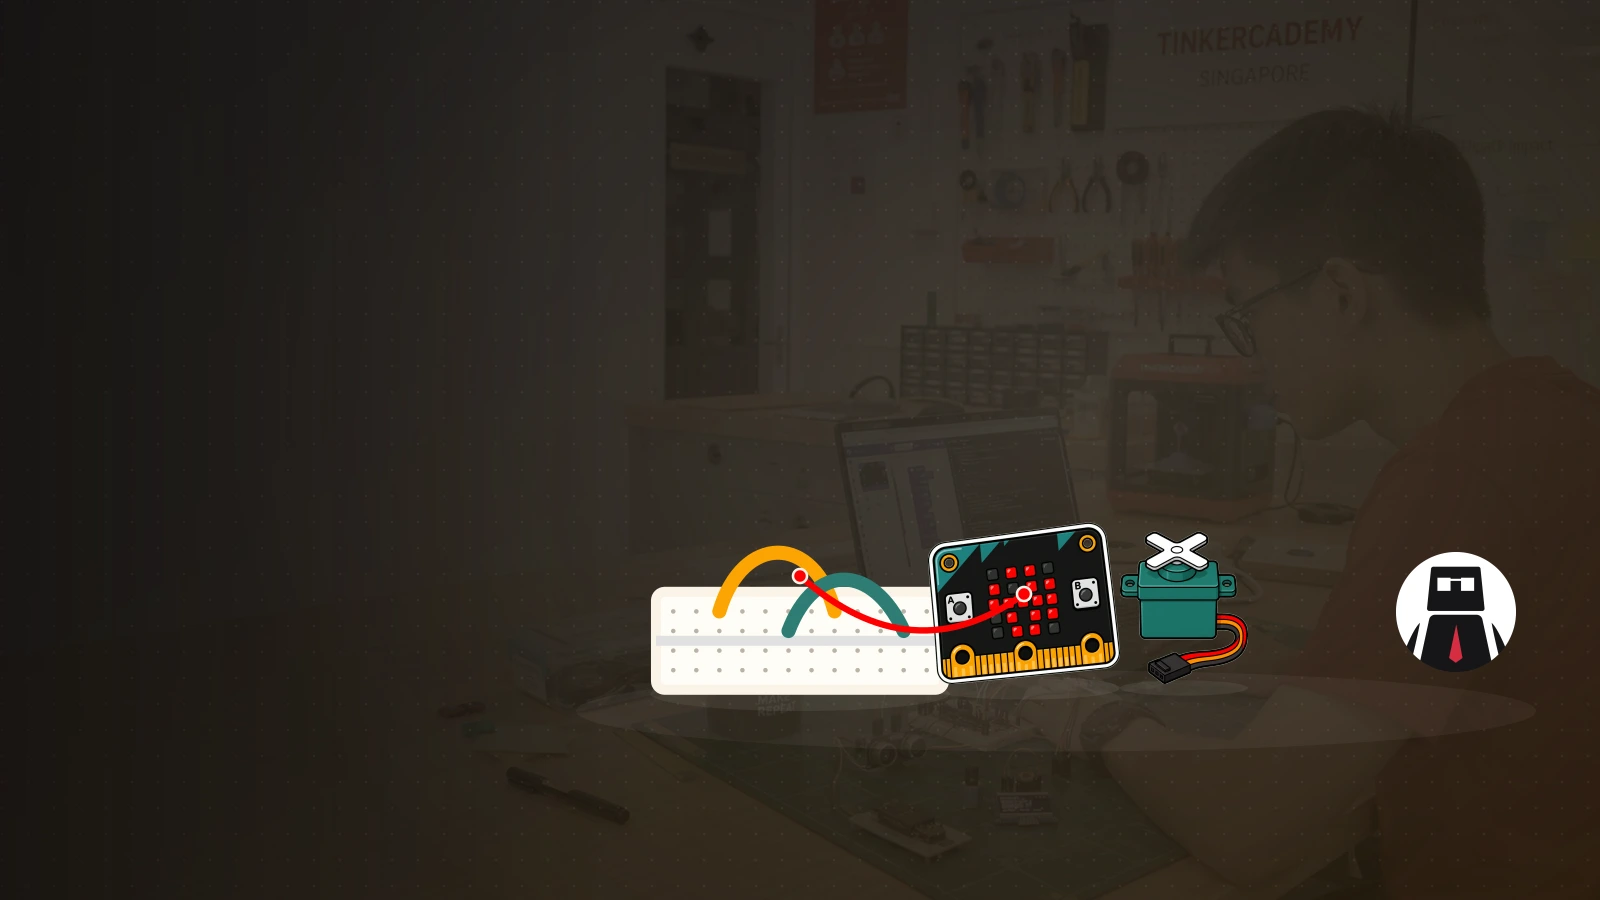
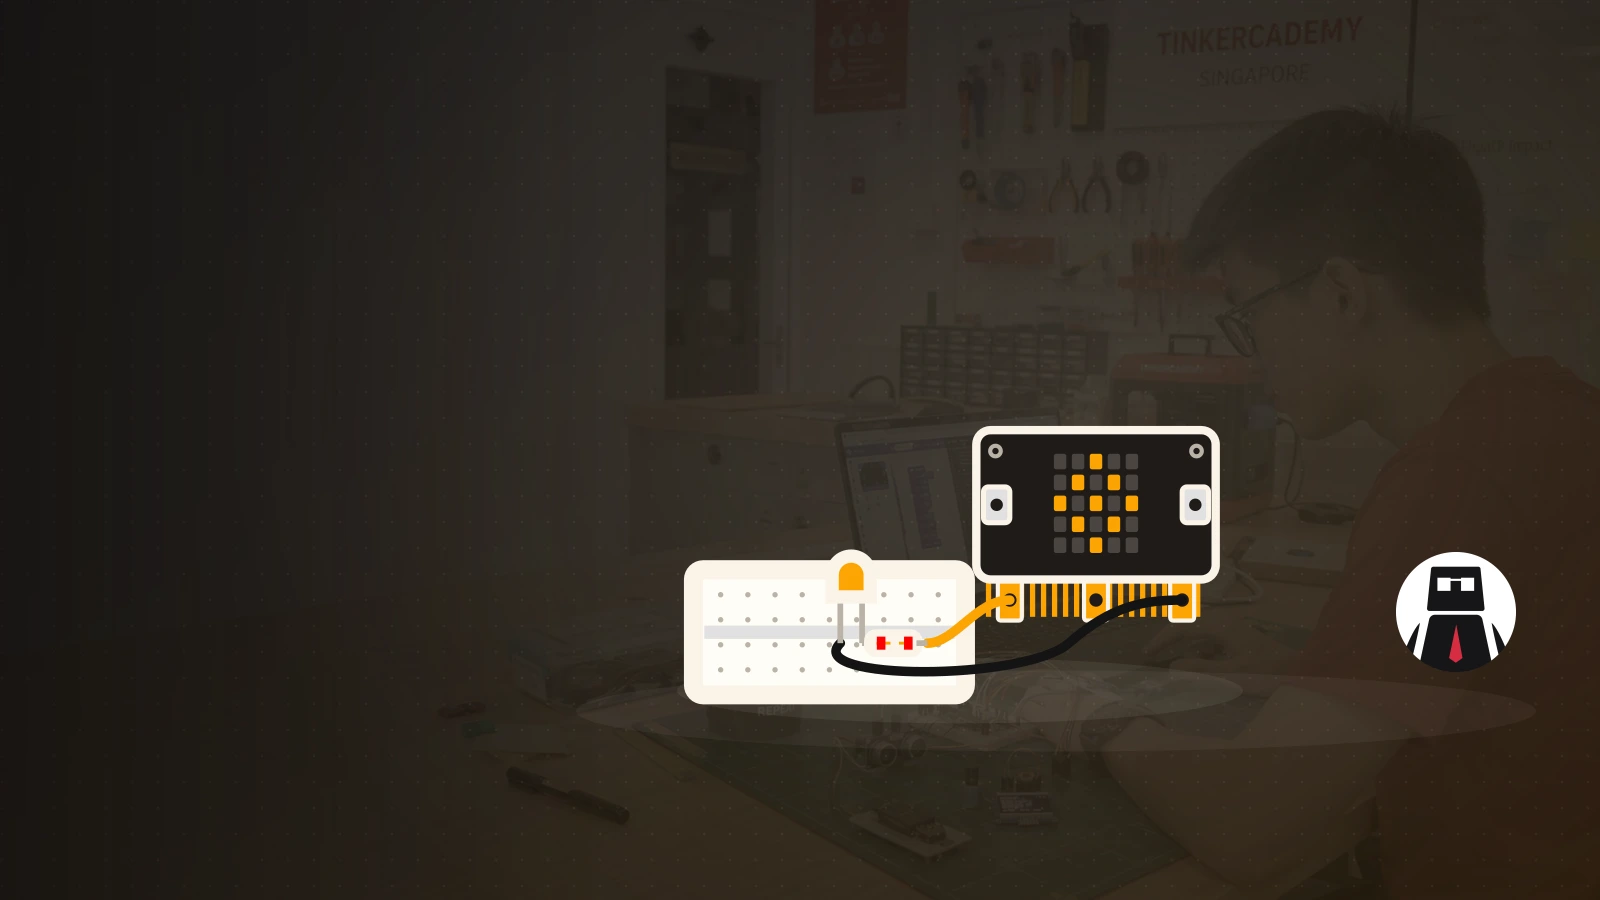
Correct microbit breadboard circuit artwork
Amp-Thread-ID: https://ampcode.com/threads/T-01a059ff-a2a6-76e9-9647-bb4082595bfa

Changed region(s): [[0.4062, 0.4667, 0.7812, 0.8089]]

diff --git a/docs/banner-system.md b/docs/banner-system.md
@@ -207,7 +207,10 @@ The library is organised by **role**, and the roles combine:
    renders into any device via the `screen` field (`{"type": "monitor",
    "screen": "scene3d"}`). New course topic → usually a new *screen*, not a
    new device. 6 devices × 8 screens already gives ~48 combinations.
-3. **Hardware** — `microbit`, `breadboard`, `gamepad`.
+3. **Hardware** — `microbit`, `breadboard`, `microbit-circuit`, `gamepad`.
+   Use `microbit-circuit` when a connected circuit is visible: it draws one
+   complete P0 → resistor → LED → GND path and avoids decorative wires that do
+   not terminate on components.
 4. **Connectors** — `wire`: `{type: "wire", x, y, x2, y2, sag?}` draws a
    sagging cable between two scene points (croc-clip energy; ties hardware to
    devices so clusters read as one build, not scattered objects).
